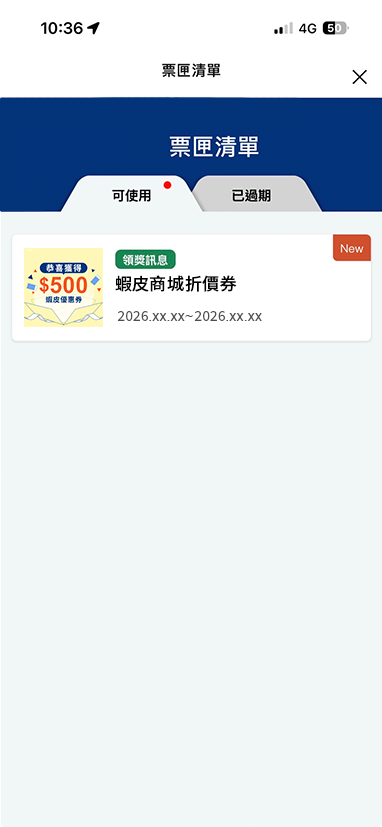
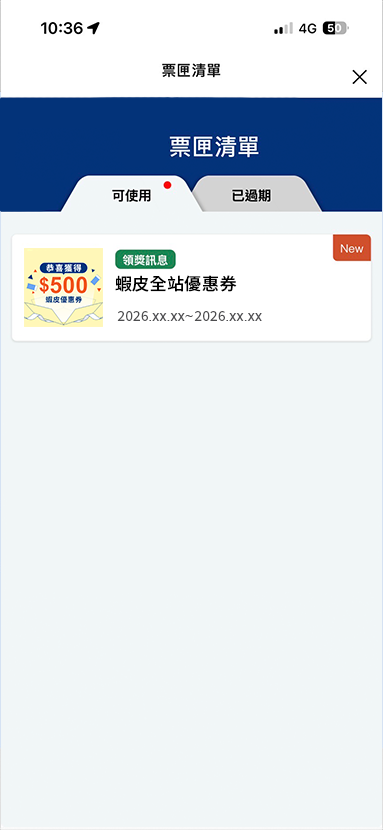
Add files via upload

diff --git a/index.html b/index.html
@@ -176,7 +176,7 @@
         <section class="intro section" id="overview">
           <div class="container center headline-block">
             <h1>證券開戶超優惠，台美股開戶送500元蝦皮全站優惠券</h1>
-            <h2>交易月月加碼700元股票手續費抵用金，滿額再抽iPhone18 Pro及蝦皮萬元購物金</h2>
+            <h2>交易月月加碼700元股票交易手續費抵用金，滿額再抽iPhone18 Pro及蝦皮萬元購物金</h2>
           </div>
         </section>
 
@@ -194,7 +194,7 @@
 
             <div class="opening-offers">
               <article>
-                <h4>新開戶＋登錄</h4>
+                <h4>新開戶＋登錄＋綁定</h4>
                 <strong><b>$</b>500</strong>
                 <h5>蝦皮全站優惠券</h5>
                 <p>證券開戶完成之次月15號前透過凱基證券LINE官方帳號發送，請先綁定「凱基證券樂活投資人」LINE官方帳號（<a href="#redeem">如何綁定</a>）。</p>
@@ -203,7 +203,7 @@
                 <h4>新開戶＋登錄＋交易</h4>
                 <strong><b>月月 $</b>700</strong>
                 <h5>手續費抵用金</h5>
-                <p>不限金額交易月月$700股票手續費抵用金（限台股電子交易，每月上限700元，回饋時間為2026.10-2027.08，詳情請見<a href="#notice">注意事項</a>）。</p>
+                <p>不限金額交易月月$700股票交易手續費抵用金（限用於台股電子交易，每月上限700元，回饋時間為2026.10-2027.08，詳情請見<a href="#notice">注意事項</a>）。</p>
                 <small>＊不限金額交易包含美股、定期定額</small>
               </article>
             </div>
@@ -238,10 +238,10 @@
                     <p><span>交易台股</span><b>每滿5萬元</b></p>
                   </div>
                   <div><img src="images/USA_flag.svg" alt="美國">
-                    <p><span>交易美股</span><b>每滿1500美元</b></p>
+                    <p><span>交易美股</span><b>每滿1,500美元</b></p>
                   </div>
                 </div>
-                <strong class="draw-chance"><small>符合任一門檻</small><b>抽獎機會 <span>＋1</span></b></strong>
+                <strong class="draw-chance"><b>抽獎機會 <span>＋1</span></b></strong>
               </div>
             </div>
 
@@ -250,14 +250,16 @@
                 <p>蝦皮全站優惠券</p><em>10名</em>
               </article>
               <article class="feature"><strong>iPhone 18 Pro</strong>
-                <p>市價$10,000</p><em>3名</em>
+                <p>市價$44,900</p><em>3名</em>
               </article>
               <article><strong><small>$</small>3,000</strong>
                 <p>蝦皮全站優惠券</p><em>50名</em>
               </article>
             </div>
 
-            <button class="ticket-button" type="button" @click="ticketModal = true">查看我的抽獎券</button>
+            <a class="ticket-button button-link"
+              href="https://h5webtrade.kgieworld.com.tw/ServicesWeb/Auth/Login?orign=P&amp;applytype=86&amp;stcok=1&amp;clear=Y"
+              target="_blank" rel="nofollow me noopener noreferrer">查看我的抽獎券</a>
             <p class="trade-line-note">＊蝦皮全站優惠券將透過凱基證券 LINE 官方帳號發送，請先綁定「凱基證券樂活投資人」LINE 官方帳號（<a href="#redeem">如何綁定</a>）。
             </p>
           </div>
@@ -298,26 +300,26 @@
           <span class="parallax-ball parallax-ball-blue parallax-ball-intro" data-move-x="680" data-move-y="480"
             aria-hidden="true"></span>
           <div class="container center">
-            <h2>手續費省更多，投資更輕鬆</h2>
+            <h2>股票交易手續費省更多，投資更輕鬆</h2>
             <div class="fee-grid">
               <article>
                 <img class="fee-illustration" src="images/fees_01.svg" alt="台股新戶手續費優惠">
                 <h3>台股新戶</h3>
                 <p><strong>手續費優惠</strong></p>
-                <a href="#notice">點此了解 &gt;</a>
+                <a href="https://chatservice.kgi.com.tw/Webhook/?q=台股手續費" target="_blank">點此了解 &gt;</a>
               </article>
               <article>
                 <img class="fee-illustration" src="images/fees_02.svg" alt="美股手續費優惠">
                 <h3>美股手續費超有感</h3>
                 <p>免申請立即擁有</p>
                 <p><strong>手續費驚喜價?</strong></p>
-                <a href="#notice">點此了解 &gt;</a>
+                <a href="https://chatservice.kgi.com.tw/Webhook/?q=美股手續費" target="_blank">點此了解 &gt;</a>
               </article>
               <article>
                 <img class="fee-illustration" src="images/fees_03.svg" alt="台美股定期定額優惠">
                 <h3>台美股定期定額</h3>
                 <p><strong>均一價</strong></p>
-                <a href="#notice">點此了解 &gt;</a>
+                <a href="https://chatservice.kgi.com.tw/Webhook/?q=定期定額手續費" target="_blank">點此了解 &gt;</a>
               </article>
             </div>
           </div>
@@ -326,26 +328,25 @@
         <section class="open-account section" id="open">
           <div class="container center">
             <p class="eyebrow">今天開戶，明天開始投資</p>
-            <h2>立即線上開戶</h2>
+            <h2>台美股線上開戶</h2>
             <h3>開戶前請準備</h3>
             <div class="prep-grid">
               <article><span>01</span>
                 <img class="open-account-gif" src="images/open-account01.gif" alt="準備身分證與第二證件">
-                <h4>身分證＋第二證件</h4>
-                <p>健保卡或駕照，證件需有照片</p>
+                <h4>身分證+健保卡或駕照</h4>
+                <p>(證件需有照片)</p>
               </article>
               <article><span>02</span>
                 <img class="open-account-gif" src="images/open-account02.gif" alt="進行身分驗證">
-                <h4>身分驗證</h4>
-                <p>手持證件半身照或銀行身分認證</p>
+                <h4>手持證件半身照</h4>
+                <p>或銀行身分認證</p>
               </article>
               <article><span>03</span>
                 <img class="open-account-gif" src="images/open-account03.gif" alt="準備本人銀行帳戶">
-                <h4>本人銀行帳戶</h4>
-                <p>準備個人名下銀行帳戶資料</p>
+                <h4>銀行本人帳戶</h4>
               </article>
-            </div><a class="primary-button button-link" href="https://eoa.kgi.com.tw/OOA/index.aspx" target="_blank"
-              rel="noopener noreferrer">立即開戶</a>
+            </div><a class="primary-button button-link" href="https://eoa.kgi.com.tw/OOA/index.aspx?Source=E260801"
+              target="_blank" rel="noopener noreferrer">立即開戶</a>
           </div>
         </section>
 
@@ -461,7 +462,8 @@
                 @click="toggleFaq(i)"><span>Q{{i+1}}</span>{{item.q}}<i></i></button>
               <div class="accordion-answer" :class="{'is-open':openFaq.includes(i)}">
                 <div>
-                  <p>{{item.a}}</p>
+                  <p>{{item.a}}<a v-if="item.link" :href="item.link" target="_blank"
+                      rel="nofollow me noopener noreferrer">{{item.linkText}}</a></p>
                 </div>
               </div>
             </article>
@@ -500,43 +502,45 @@
                   <li>若取消訂單或辦理退貨，僅退還購物實際支付的金額，已折抵金額將無法歸還。</li>
                 </ul>
 
-                <h4 class="notice-paren-heading" data-number="(6)">台股電子交易手續費折抵金月月700元</h4>
+                <h4 class="notice-paren-heading" data-number="(6)">台股電子交易手續費抵用金月月700元</h4>
                 <ul class="notice-bullet-list">
-                  <li>手續費折抵金將於您「完成首筆交易」扣款成功且「完成本活動登錄」的次月起至2027年8月底，月月回饋到您的「交割帳戶」或「e財庫」。</li>
+                  <li>手續費抵用金將於您「完成首筆交易」扣款成功且「完成本活動登錄」的次月起至2027年8月底，月月回饋到您的「交割帳戶」或「e財庫」。</li>
                   <li>「完成首筆交易」不限單筆或定期定額、不限台／美股、不限金額、標的，但信託平台交易不適用。</li>
-                  <li>手續費抵用金僅限用於台股電子交易手續費，不含定期定額交易。每月最高可抵手續費700元，如手續費未達700元則依原手續費金額回饋，手續費為0元則無回饋。</li>
+                  <li>手續費抵用金僅限折抵台股電子交易，不含定期定額交易。每月最高可抵手續費700元，如手續費未達700元則依原手續費金額回饋，手續費為0元則無回饋。</li>
                   <li>
-                    例如：小明於2026年10月22日完成首筆交易成功扣款，自2026年11月起至2027年8月連續10個月，每月皆享台股電子交易手續費抵用金回饋：假設小明10月實付手續費為500元，則11月將回饋500元抵用金；小明10月實付手續費為1,000元，則11月將回饋700元抵用金；小明10月實付手續費為0元，則11月無回饋抵用金（了解可折抵範圍）。
+                    例如：小明於2026年10月22日完成首筆交易成功扣款，自2026年11月起至2027年8月連續10個月，每月皆享台股電子交易手續費抵用金回饋：假設小明10月實付手續費為500元，則11月將回饋500元抵用金；小明10月實付手續費為1,000元，則11月將回饋700元抵用金；小明10月實付手續費為0元，則11月無回饋抵用金<a
+                      href="https://chatservice.kgi.com.tw/Webhook/?q=%E4%BA%AB%E6%8A%95%E8%B3%87%E9%81%B8%E5%87%B1%E5%9F%BA%E6%89%8B%E7%BA%8C%E8%B2%BB%E6%8A%B5%E7%94%A8%E9%87%91"
+                      target="_blank" title="了解可折抵範圍">（了解可折抵範圍）</a>。
                   </li>
                   <li>月交易量計算期間為當月1號至30號（31號），次月底前將抵用金回饋到e財庫或交割帳戶，如您同時持有e財庫與交割帳戶，則優先回饋於e財庫。</li>
-                  <li>台股電子交易手續費抵用金結算時必須擁有「台股有效帳戶」，及「e財庫」或「交割帳戶」，否則將喪失活動優惠資格。</li>
-                  <li>台股手續費抵用金依帳戶計算，僅限折抵台股電子交易手續費，不適用折抵定期定額交易手續費，若有多筆抵用金，依到期期限最近的優先抵扣。</li>
+                  <li>手續費抵用金結算時必須擁有「台股有效帳戶」，及「e財庫」或「交割帳戶」，否則將喪失活動優惠資格。</li>
+                  <li>手續費抵用金依帳戶計算，僅限折抵台股電子交易手續費，不適用折抵定期定額交易手續費，若有多筆抵用金，依到期期限最近的優先抵扣。</li>
                 </ul>
 
                 <h4>【股票交易禮】</h4>
                 <ol class="notice-paren-list">
                   <li>適用對象：凱基證券之本國籍自然人客戶（限本國自然人設籍台灣、澎湖、金門、馬祖，含98員工戶，不含法人戶）。</li>
                   <li>
-                    活動期間內，人工或電子交易買入台美股（含台美股ETF、定期定額），台股交易金額每滿50,000台幣即有1張抽獎券（以交易帳號個別計算）；美股交易金額每滿1,500美元即有1張抽獎券（以交易帳號個別計算），不得跨期合併計算，每期交易台美股上限各為888張。
+                    活動期間內，人工或電子交易買入台美股（含台美股ETF、定期定額），台股交易金額每滿50,000台幣即有1張抽獎券（以交易帳號個別計算）；美股交易金額每滿1,500美元即有1張抽獎券（以交易帳號個別計算），交易台美股抽獎券上限各為888張。
                   </li>
                   <li>美股交易金額以成功扣款之實際交易日美金兌新臺幣匯率（四捨五入取整數）計算。</li>
                   <li>美股不論採台幣帳戶或外幣帳戶交割，均以美元計價之「成交金額」（不含手續費）認定是否符合本活動抽獎門檻及計算抽獎券張數。</li>
-                  <li>本公司將於本期結束後之次月抽出該週期符合資格客戶，抽獎券次數歸零重新計算，無法累計至其他週期。</li>
+                  <li>本公司將於活動結束後之次月抽出符合資格客戶。</li>
                 </ol>
 
                 <h4>範例說明</h4>
                 <ul class="notice-bullet-list">
                   <li>A客戶在10/7買入美股3,000美元（獲得2張抽獎券），10/5再買入美股6,000美元（獲得4張抽獎券），則A客戶於共獲得6張抽獎券。</li>
                   <li>
-                    B客戶在於10/7買入美股90,000美元（獲得60張抽獎券），於10/8買入台股60,000台幣，10/12再買入台股40,000台幣（當期累積交易台股達100,000台幣）（獲得2張抽獎券），則B客戶於共獲得62張抽獎券。
+                    B客戶在於10/7買入美股90,000美元（獲得60張抽獎券），於10/8買入台股60,000台幣，10/12再買入台股40,000台幣（累積交易台股達100,000台幣）（獲得2張抽獎券），則B客戶於共獲得62張抽獎券。
                   </li>
-                  <li>E客戶10/7買入美股1,000美元，10/10賣出美股2,000美元，當期美股累積交易金額達3,000美元，則E客戶於第一期獲得2張抽獎券。</li>
+                  <li>E客戶10/7買入美股1,000美元，10/10賣出美股2,000美元，美股累積交易金額達3,000美元，則E客戶獲得2張抽獎券。</li>
                 </ul>
 
-                <p class="notice-paren-heading" data-number="(6)">本活動提供抽獎獎項為「IPhone18 手機」商品兌換券＆蝦皮全站優惠券，使用規範如下：</p>
+                <p class="notice-paren-heading" data-number="(6)">本活動提供抽獎獎項為「iPhone18 手機」商品兌換券＆蝦皮全站優惠券，使用規範如下：</p>
                 <ol class="notice-alpha-list">
-                  <li>本活動獎項「IPhone18
-                    手機」為商品兌換券，市價新臺幣XXXXXX元，得獎人需持券向本活動配合之神腦國際購買商品，恕不得兌換現金，亦無法找零。如遇市價波動或特殊節日等加價狀況，得獎人須自行補足差額，實際使用事項依神腦國際規範為主。
+                  <li>本活動獎項「iPhone18
+                    手機」為商品兌換券，市價新臺幣44,900元，得獎人需持券向本活動配合之神腦國際購買商品，恕不得兌換現金，亦無法找零。如遇市價波動或特殊節日等加價狀況，得獎人須自行補足差額，實際使用事項依神腦國際規範為主。
                   </li>
                   <li>蝦皮全站優惠券為電子票券（下稱商品禮券）：
                     <ol>
@@ -554,17 +558,17 @@
                 <h4>【投資APP數位禮】</h4>
                 <ol class="notice-paren-list">
                   <li>限活動期間當期成功登入隨身e策略APP，即獲得一次抽獎機會，不重覆累積。</li>
-                  <li>本活動提供之1000元超商好禮即享券為宜睿智慧「超商便利組4選1電子禮券」可兌換7-ELEVEN、全家、萊爾富、OK超商，四大品牌擇一使用，一但選定品牌，限全額度單一品牌兌換使用。</li>
+                  <li>本活動提供之1000元超商好禮即享券為宜睿智慧「超商便利組4選1電子禮券」可兌換7-ELEVEN、全家、萊爾富、OK超商，四大品牌擇一使用，一旦選定品牌，限全額度單一品牌兌換使用。</li>
                 </ol>
 
                 <ol start="3">
-                  <li>2027/1/5抽2026/10/1-2026/12/31符合資格客戶，凱基證券將透過得獎人開戶留存的電子信箱通知IPhone18
+                  <li>本公司將於2027/1/5抽出2026/10/1-2026/12/31符合資格客戶，凱基證券將透過得獎人開戶留存的電子信箱通知IPhone18
                     手機得獎人，每個身分證字號限領獎一次，且領獎時須為凱基證券有效帳戶始符合贈獎資格。請務必於留存有效且正確的電子信箱及手機號碼。若因封鎖或其他原因導致無法收到電子郵件及訊息，凱基證券恕不提供補寄服務。
                   </li>
                   <li>
-                    電子優惠券及禮券將透過凱基證券LINE官方帳號「凱基證券樂活投資人」發送，客戶須綁定「凱基證券樂活投資人」LINE官方帳號，始符合交易禮獲獎資格。本公司將透過「凱基證券樂活投資人」LINE官方帳號向符合資格客戶寄發獲獎通知，得獎者需於2026年12月31日前綁定「凱基證券樂活投資人」LINE官方帳號，且於收到獲獎通知前不可封鎖或解除「凱基證券樂活投資人」LINE官方帳號好友，若因封鎖或解除致無法收到得獎訊息而無法獲得獎勵，恕不補發且不得要求轉換或轉讓獎項。
+                    電子優惠券及禮券將透過「凱基證券樂活投資人」LINE官方帳號發送，客戶須綁定「凱基證券樂活投資人」LINE官方帳號，始符合交易禮獲獎資格。每個身分證字號限領獎一次，且領獎時須為凱基證券有效帳戶始符合贈獎資格。本公司將透過「凱基證券樂活投資人」LINE官方帳號向符合資格客戶寄發獲獎通知，得獎者需於2026年12月31日前綁定「凱基證券樂活投資人」LINE官方帳號，且於收到獲獎通知前不可封鎖或解除「凱基證券樂活投資人」LINE官方帳號好友，若因封鎖或解除致無法收到得獎訊息而無法獲得獎勵，恕不補發且不得要求轉換或轉讓獎項。
                   </li>
-                  <li>交易禮＆數位禮，將於活動結束後統一抽獎，活動參加者可於各週期結束後次月15日後（遇例假日順延）於活動網站「得獎名單」專區確認是否得獎。</li>
+                  <li>交易禮＆數位禮，將於活動結束後統一抽獎，活動參加者可於活動結束後次月15日後（遇例假日順延）於活動網站「得獎名單」專區確認是否得獎。</li>
                   <li>
                     參加者之交易資料有違反證券交易法、期貨交易法、洗錢防制法及臺灣證券交易所股份有限公司、臺灣期貨交易所股份有限公司、中華民國證券商業同業公會、中華民國期貨業商業同業公會、財團法人中華民國證券櫃檯買賣中心等機構之相關規定，本公司有權取消其抽獎或得獎資格，參加者如因違反與凱基證券之合約或其他法令，致證券交易帳戶被停止使用或註銷者，亦同。
                   </li>
@@ -684,7 +688,7 @@
         </button>
         <div class="modal-container-infoArea">
           <h2 id="ticket-title"><span class="text-center text-blue">登錄成功！</span></h2>
-          <p>新朋友請記得完成台美股開戶審核並綁定「凱基證券樂活投資人」LINE官方帳號，最高8,900抵用金等你拿！</p>
+          <p>新朋友請記得完成台美股開戶審核並綁定「凱基證券樂活投資人」LINE官方帳號，月月$700元手續費抵用金等你拿！</p>
           <div class="btnArea">
             <div class="btn blue">
               <a href="https://eoa.kgi.com.tw/OOA/index.aspx?src=S_113&amp;prod=P_163&amp;_gl=1*1lfe8u3*_gcl_aw*R0NMLjE3ODkwODg2NDAuQ2p3S0NBandxb25WQmhBNEVpd0E5d1lKM2NlT2dxeTJmVWVySmc0R3pwRnRJczZYOUE0ZnBKSlFZLS1YQTRhakUxbmE5Y3ZxYTFZX3ZSb0NuLXNRQXZEX0J3RQ..*_gcl_au*NDU1NzYxMTk3LjE3ODIxODM3NzY.*_ga*MTg5NTkwMjgwMS4xNzgyMTgzNzc2*_ga_K1BGJY4WFR*czE3ODkzNTQzNjkkbzE3NCRnMSR0MTc4OTM1NDczNyRqNjAkbDAkaDA.&amp;Source=E260801"
@@ -696,7 +700,7 @@
       </div>
     </div>
   </div>
-  <script src="js/main.js"></script>
+  <script src="js/main.js?v=20260916"></script>
 </body>
 
 </html>

diff --git a/js/main.js b/js/main.js
@@ -11,7 +11,7 @@ window.addEventListener('load', () => {
 const app = Vue.createApp({
   data() {
     return {
-      menuOpen: false, showTop: false, ticketModal: false, pid: '', agreed: false, formMessage: '', rankingTab: 'tw', redeemTab: 0, redeemStep: 0, teachingDragStart: null, teachingDragX: 0, openFaq: [], noticeOpen: false, parallaxBalls: [], parallaxFrame: 0,
+      menuOpen: false, showTop: false, ticketModal: false, pid: '', agreed: true, formMessage: '', rankingTab: 'tw', redeemTab: 0, redeemStep: 0, teachingDragStart: null, teachingDragX: 0, openFaq: [], noticeOpen: false, parallaxBalls: [], parallaxFrame: 0,
       navItems: [{id:'gifts',label:'好禮三重送'},{id:'fees',label:'手續費省更多'},{id:'open',label:'線上開戶'},{id:'ranking',label:'熱門排行'},{id:'qa',label:'Q&A'}],
       rankings: {
         tw:[{code:'0050',type:'市值型',name:'元大台灣50',copy:'追蹤富時臺灣證券交易所臺灣50指數，挑選臺灣證券交易所上市股票中，總市值最大的50家公司作為指數的成分股。'},{code:'0056',type:'高股息',name:'元大高股息',copy:'追蹤臺灣富時臺灣證券交易所高股息指數，該指數選取未來一年預測現金股利殖利率最高的50支股票作為成分股。'},{code:'00878',type:'高股息',name:'國泰永續高股息',copy:'追蹤MSCI臺灣ESG永續高股息精選30指數，捕捉台灣兼具永續與高息兩大特徵之企業的績效表現。 '},{code:'2330',type:'科技',name:'台積電',copy:'全球晶圓代工龍頭，先進製程與量產能力領先，為AI與高效能運算關鍵供應商。'},{code:'00919',type:'市值型',name:'凱基台灣TOP50',copy:'追蹤「臺灣指數公司特選臺灣 TOP 50 指數」，經流動性及獲利指標，篩選出市值排名前 50 的股票。'}],
@@ -26,31 +26,32 @@ const app = Vue.createApp({
           {title:'出現以下任一種畫面',copy:'視為綁定成功',images:[{src:'images/step_process_3a.jpg',alt:'LINE 綁定成功畫面一'},{src:'images/step_process_3b.jpg',alt:'LINE 綁定成功畫面二'}]}
         ],
         [
-          {title:'',sections:[{label:'【開戶禮】',copy:'每月 15 日將透過「凱基證券樂活投資人」LINE 官方帳號發送開戶禮蝦皮全站優惠券，點擊「立即領取」進入兌換流程。'},{label:'【交易禮】',copy:'中獎者將於活動結束後，次月 15 日透過「凱基證券樂活投資人」LINE 官方帳號發送蝦皮全站優惠券，點擊「立即領取」進入兌換流程。'}],images:[{src:'images/step_coupon_1a.png',alt:'從 LINE 通知點擊立即領取蝦皮全站優惠券'}]},
-          {title:'進入票匣清單',copy:'點擊查看',images:[{src:'images/step_coupon_2a.png',alt:'進入票匣清單點擊查看'}]},
-          {title:'點擊「兌換」連結',copy:'進入蝦皮購物兌換頁面',copyLink:'https://shopee.tw/user/voucher-wallet',images:[{src:'images/step_coupon_3a.png',alt:'點擊兌換進入蝦皮購物兌換頁面'}]},
+          {title:'',sections:[{label:'【開戶禮】',copy:'符合開戶資格且完成LINE綁定,，本公司將於次月15日前透過「凱基證券樂活投資人」LINE官方帳號發送開戶禮蝦皮優惠券，請點擊「立即領取」進入兌換流程。'},{label:'【交易禮】',copy:'本公司將於活動結束後次月15日前透過「凱基證券樂活投資人」LINE官方帳號發送蝦皮優惠券，請點擊「立即領取」進入兌換流程。'}],images:[{src:'images/step_coupon_1a.png',alt:'從 LINE 通知點擊立即領取蝦皮全站優惠券'}]},
+          {title:'進入票匣清單',copy:'點擊查看',images:[{src:'images/step_coupon_2a.png?v=20260916',alt:'進入票匣清單點擊查看'}]},
+          {title:'點擊「兌換」連結',copy:'進入蝦皮購物兌換頁面',copyLink:'https://shopee.tw/user/voucher-wallet',images:[{src:'images/step_coupon_3a.png?v=20260916',alt:'點擊兌換進入蝦皮購物兌換頁面'}]},
           {title:'',customType:'shopee-voucher',images:[{src:'images/step_coupon_4a.jpg',alt:'貼上蝦皮商城禮券兌換序號'}]}
         ],
         [
-          {title:'',sections:[{label:'【數位禮】',copy:'中獎者將於活動結束後，次月 15 日透過「凱基證券樂活投資人」LINE 官方帳號發送超商好禮即享券，點擊「立即領取」進入兌換流程。'}],images:[{src:'images/step_coupon_1b.png',alt:'從 LINE 通知點擊立即領取超商好禮即享券'}]},
-          {title:'進入票匣清單',copy:'點擊查看',images:[{src:'images/step_coupon_2b.png',alt:'進入票匣清單點擊查看'}]},
-          {title:'點擊「兌換」連結',copy:'進入宜睿智慧兌換頁面',images:[{src:'images/step_coupon_3b.png',alt:'點擊兌換進入宜睿智慧兌換頁面'}]},
+          {title:'',sections:[{label:'【數位禮】',copy:'本公司將於活動結束後次月15日前透過「凱基證券樂活投資人」LINE官方帳號發送超商好禮即享券，請點擊「立即領取」進入兌換流程。'}],images:[{src:'images/step_coupon_1b.png?v=20260916',alt:'從 LINE 通知點擊立即領取超商好禮即享券'}]},
+          {title:'進入票匣清單',copy:'點擊查看',images:[{src:'images/step_coupon_2b.png?v=20260916',alt:'進入票匣清單點擊查看'}]},
+          {title:'點擊「兌換」連結',copy:'進入宜睿智慧兌換頁面',images:[{src:'images/step_coupon_3b.png?v=20260916',alt:'點擊兌換進入宜睿智慧兌換頁面'}]},
           {title:'',copy:'於畫面中貼上密碼',images:[{src:'images/step_coupon_4b.jpg',alt:'在宜睿智慧兌換頁面貼上密碼'}]}
         ]
       ],
       faqs:[
-        {q:'何時可領取 500 元蝦皮全站優惠券？',a:'500元 蝦皮全站優惠券預計於您符合資格之「次月15日前」透過凱基證券官方LINE「凱基證券樂活投資人」發送，請務必留意並綁定「凱基證券樂活投資人」LINE官方帳號。'},
-        {q:'請問如未成年人新開戶並符合資格，沒有LINE帳號可綁定，可以收到500元蝦皮全站優惠券嗎？',a:'未成年人如符合資格，凱基證券將透過未成年人開戶留存的電子信箱，以email方式寄發500元蝦皮全站優惠券，請務必留存有效且正確的電子信箱。(如何開立未成人帳戶)'},
-        {q:'請問何時可領取$700元股票手續費抵用金？',a:'台股電子單手續費抵用金將於您「完成首筆交易」扣款成功，且「完成本活動登錄」之次月起至2027年8月回饋到您的「交割帳戶」或「e財庫」，如您同時持有e財庫與交割帳戶，則優先回饋於e財庫。(手續費抵用金限台股電子交易，每月使用上限700元，回饋期間為2026.09-2027.08)。例如您2026/10/15新開戶並完成活動頁「登錄」與「交易」，手續費抵用金回饋期間為2026/11至2027/08，手續費抵用將於2026/12至2027/09列示於您的帳上。'},
-        {q:'如何參加股票交易禮的抽獎活動？需要登錄活動嗎？',a:'只要是凱基證券有開立台股或複委託帳戶的客戶，「免登錄」都可以參加活動。凡於活動期間2026/10/1~2026/12/31台股交易金額達5萬，或美股交易達1,500美元，都享有一次抽獎機會，交易越多、中獎機會越高！'},
-        {q:'凱基證券既有客戶也可參加股票交易禮的抽獎活動嗎？',a:'可以。只要是凱基證券的客戶，有開立台股或複委託帳戶，「免登錄」都可以參加抽獎活動。除此之外，還享美股單筆電子單手續費驚喜價無低消及定期定額不限交易金額，手續費均一價'},
-        {q:'我可以在哪裡看到我現在的抽獎券張數？',a:'請於凱基證券隨身e策略APP(舊版)首頁的「凱基專區」⭢「凱基主打」⭢「優惠活動」中看到，或是點選這裡即可查詢；新版隨身e策略APP點選「更多」⭢「服務」⭢「其他」⭢「優惠活動」。'},
-        {q:'請問何時會公告抽獎？',a:'本公司將於每期結束後統一抽獎，並於次月15日後(遇例假日順延)於活動網站「得獎名單」專區或是凱基證券隨身e策略APP首頁的「凱基專區」⭢「凱基主打」⭢「優惠活動」專區確認是否得獎。'}
+        {q:'請問何時可領取證券開戶優惠500元蝦皮全站優惠券？',a:'500元 蝦皮全站優惠券預計於您符合資格之「次月15日前」透過「凱基證券樂活投資人」LINE官方帳號發送，請務必留意並綁定「凱基證券樂活投資人」LINE官方帳號。'},
+        {q:'請問如未成年人新開戶並符合資格，沒有LINE帳號可綁定，可以收到500元蝦皮全站優惠券嗎？',a:'未成年人如符合資格，凱基證券將透過未成年人開戶留存的電子信箱，以email方式寄發500元蝦皮全站優惠券，請務必留存有效且正確的電子信箱。',link:'https://event.kgi.com.tw/news/event/how-to-open-brokerage-account-for-children/index.html',linkText:'(如何開立未成年人帳戶)'},
+        {q:'請問何時可領取700元股票交易手續費抵用金？',a:'手續費抵用金將於您「完成首筆交易」扣款成功，且「完成本活動登錄」之次月起至2027年8月回饋到您的「交割帳戶」或「e財庫」，如您同時持有e財庫與交割帳戶，則優先回饋於e財庫。(手續費抵用金僅限折抵台股電子交易，不含定期定額交易，每月使用上限700元，回饋期間為2026.11-2027.08)。例如您2026/10/15新開戶並完成活動頁「登錄」與「交易」，手續費抵用金回饋期間為2026/11至2027/08，手續費抵用將於2026/12至2027/09列示於您的帳上。'},
+        {q:'如何參加股票交易禮的抽獎活動？需要登錄活動嗎？',a:'只要是凱基證券有開立台股或複委託帳戶的客戶，「免登錄」都可以參加活動。凡於活動期間2026/10/1~2026/12/31台股交易金額達5萬元，或美股交易達1,500美元，都享有一次抽獎機會，交易越多、中獎機會越高！'},
+        {q:'凱基證券既有客戶也可參加股票交易禮的抽獎活動嗎？',a:'可以。只要是凱基證券的客戶，有開立台股或複委託帳戶，「免登錄」都可以參加抽獎活動。除此之外，還享美股單筆電子單手續費驚喜價無低消及定期定額不限交易金額，手續費均一價。'},
+        {q:'我可以在哪裡看到我現在的抽獎券張數？',a:'請於凱基證券隨身e策略APP(舊版)首頁的「凱基專區」⭢「凱基主打」⭢「優惠活動」中看到，或是點選這裡即可查詢；新版隨身e策略APP點選「更多」⭢「服務」⭢「其他」⭢「優惠活動」。'},
+        {q:'請問何時會公告抽獎？',a:'本公司將於活動結束後統一抽獎，並於次月15日後(遇例假日順延)於活動網站「得獎名單」專區或是凱基證券隨身e策略APP首頁的「凱基專區」⭢「凱基主打」⭢「優惠活動」專區確認是否得獎。'}
       ]
     };
   },
   mounted() {
     window.addEventListener('scroll', this.onScroll, {passive:true});
+    this.getQueryStringToNext();
     this.onScroll();
     this.$nextTick(() => {
       this.setupReveal();
@@ -72,6 +73,23 @@ const app = Vue.createApp({
     if (this.parallaxFrame) cancelAnimationFrame(this.parallaxFrame);
   },
   methods: {
+    getQueryStringToNext(){
+      window.addEventListener('load', () => {
+        const query = window.location.search.slice(1);
+        const links = document.querySelectorAll('a:not(.dontAddString)');
+        if (!query) return;
+        links.forEach(link => {
+          const hrefValue = link.getAttribute('href');
+          if (!hrefValue || hrefValue.startsWith('#') || hrefValue.startsWith('javascript:')) return;
+          if (hrefValue.includes('?')) {
+            const hrefParts = hrefValue.split('?');
+            link.setAttribute('href', hrefParts[0] + '?' + query + '&' + hrefParts.slice(1).join('?'));
+          } else {
+            link.setAttribute('href', hrefValue + '?' + query);
+          }
+        });
+      }, {once:true});
+    },
     setupOpeningOffersSlider(){
       if (!window.jQuery || !window.jQuery.fn || !window.jQuery.fn.slick) return;
       const slider = window.jQuery('.opening-offers');

diff --git a/css/style.css b/css/style.css
@@ -4973,7 +4973,7 @@ h2 {
   justify-content:center;
   gap:12px;
   width:max-content;
-  min-width:540px;
+  min-width:370px;
   min-height:0;
   margin:-34px auto 0;
   padding:13px 30px;
